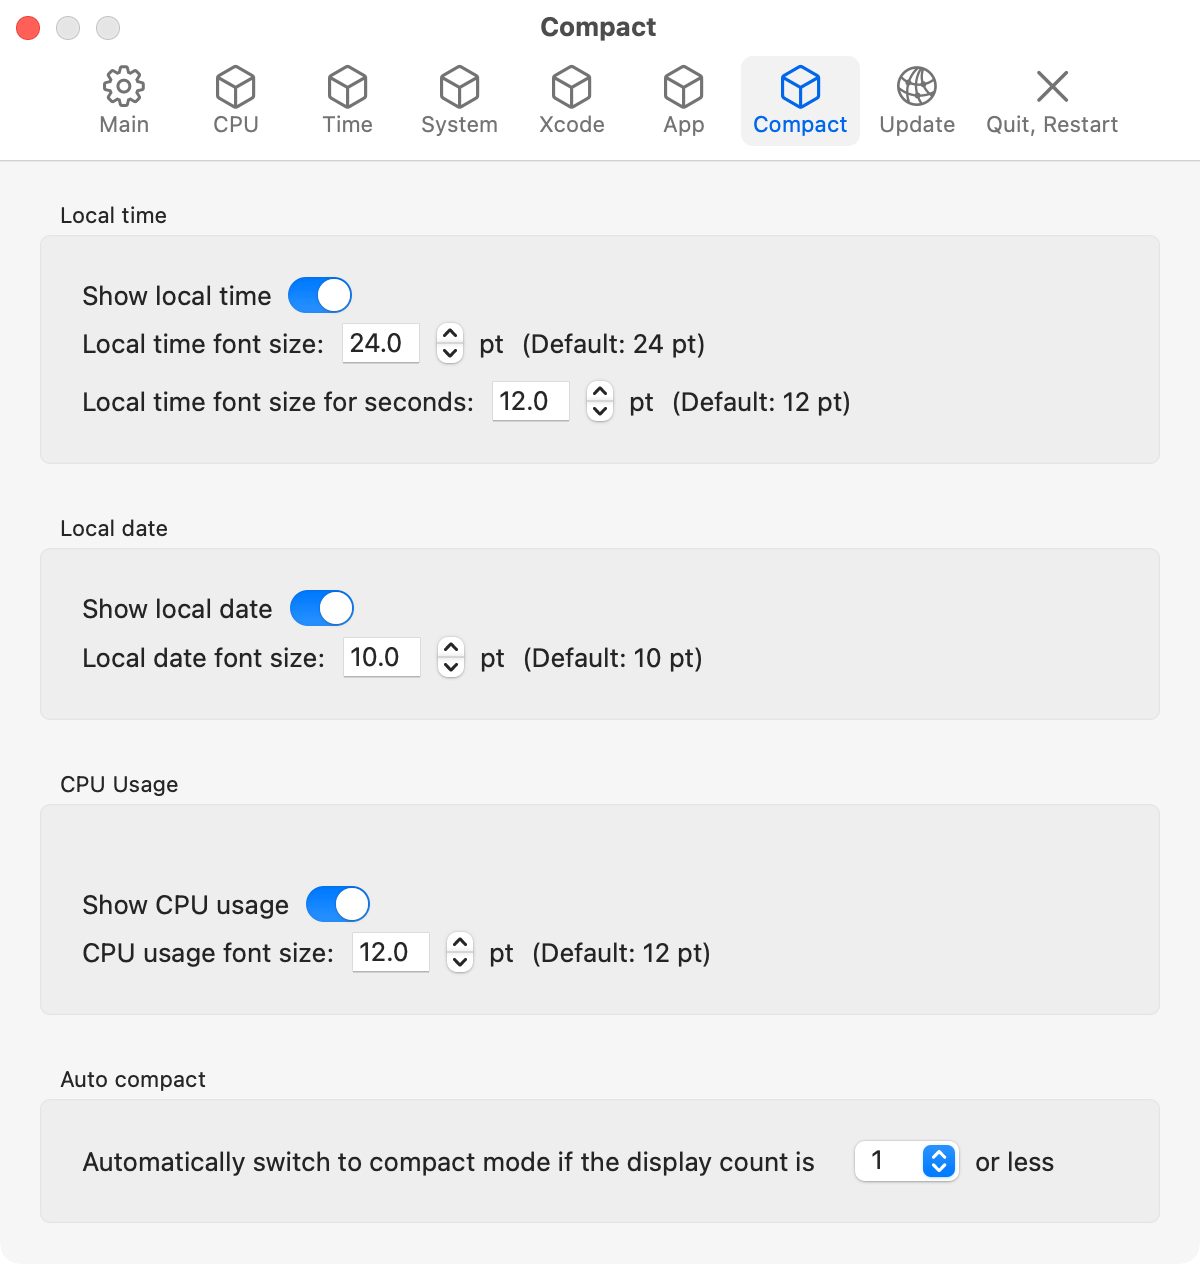
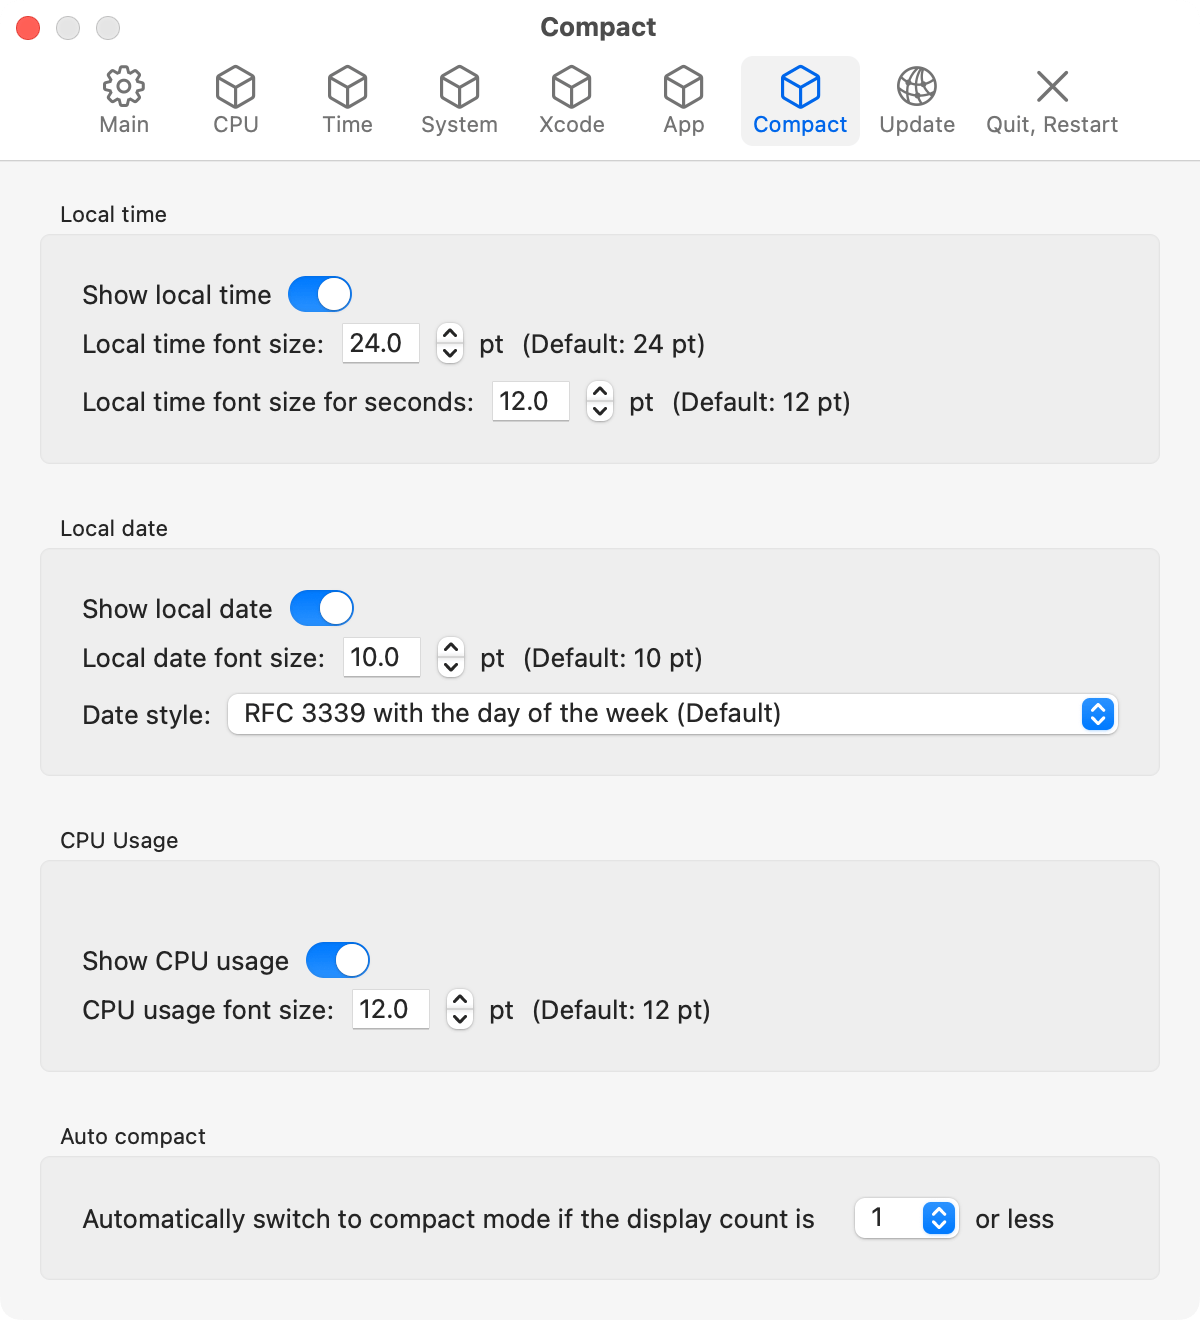
TrueWidget-2.3.0

diff --git a/sites/truewidget/content/en/_index.html b/sites/truewidget/content/en/_index.html
@@ -19,10 +19,10 @@ title = "TrueWidget"
 <div class="mt-4">
   <div class="btn-group mx-2 my-2">
     <a
-      href="https://github.com/pqrs-org/TrueWidget/releases/download/v2.2.0/TrueWidget-2.2.0.dmg"
+      href="https://github.com/pqrs-org/TrueWidget/releases/download/v2.3.0/TrueWidget-2.3.0.dmg"
       class="btn btn-primary btn-lg px-4"
     >
-      Download v2.2.0
+      Download v2.3.0
       <i class="fas fa-download ms-1"></i>
     </a>
 
@@ -38,9 +38,9 @@ title = "TrueWidget"
     <div class="dropdown-menu">
       <a
         class="dropdown-item"
-        href="https://github.com/pqrs-org/TrueWidget/releases/download/v2.2.0/TrueWidget-2.2.0.dmg"
+        href="https://github.com/pqrs-org/TrueWidget/releases/download/v2.3.0/TrueWidget-2.3.0.dmg"
       >
-        Download v2.2.0
+        Download v2.3.0
 
         <ul class="mt-2">
           <li>For macOS 13 Ventura or later</li>

diff --git a/sites/truewidget/content/en/docs/releasenotes/index.md b/sites/truewidget/content/en/docs/releasenotes/index.md
@@ -6,6 +6,15 @@ exclude_search: true
 body_class: release-notes
 ---
 
+## TrueWidget 2.3.0
+
+-   [📦 Download](https://github.com/pqrs-org/TrueWidget/releases/download/v2.3.0/TrueWidget-2.3.0.dmg)
+-   📅 Release date
+    -   Apr 29, 2025
+-   ✨ New Features
+    -   The date display format can now be changed. You can choose between RFC 3339 and the current locale's formats.
+        {{< local-image src="images/v2.3.0/date-style@2x.png" >}}
+
 ## TrueWidget 2.2.0
 
 -   [📦 Download](https://github.com/pqrs-org/TrueWidget/releases/download/v2.2.0/TrueWidget-2.2.0.dmg)
